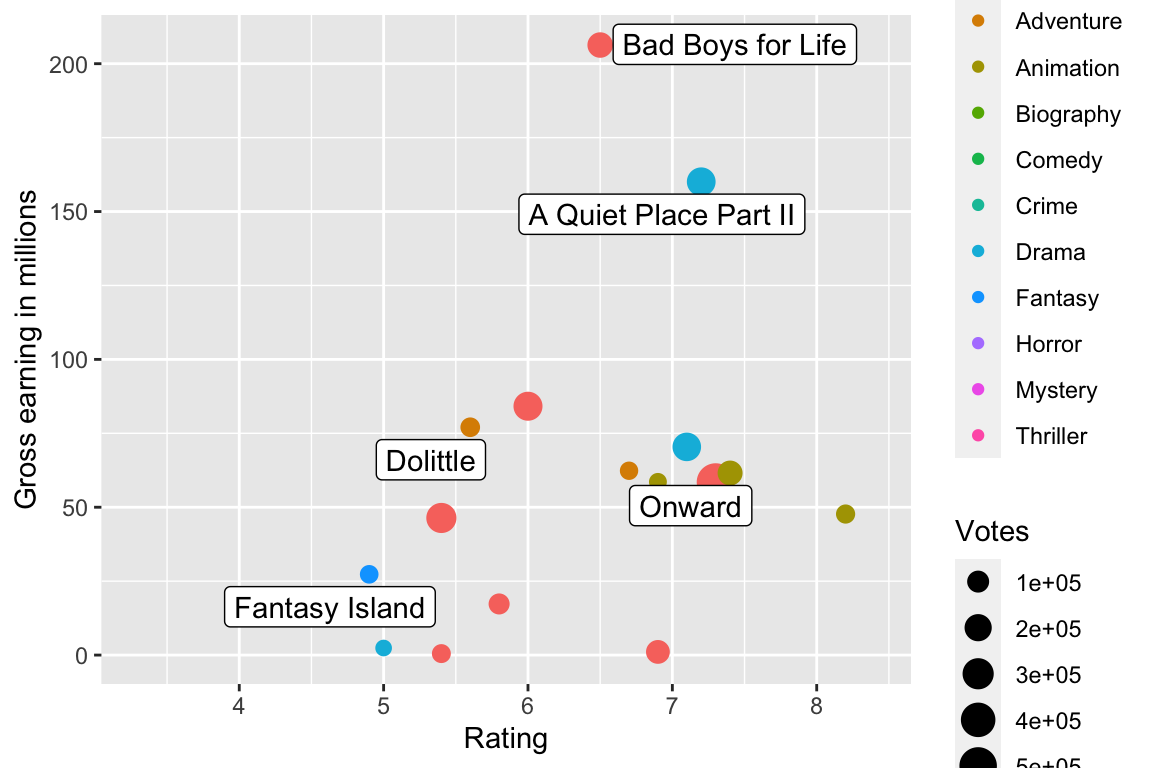
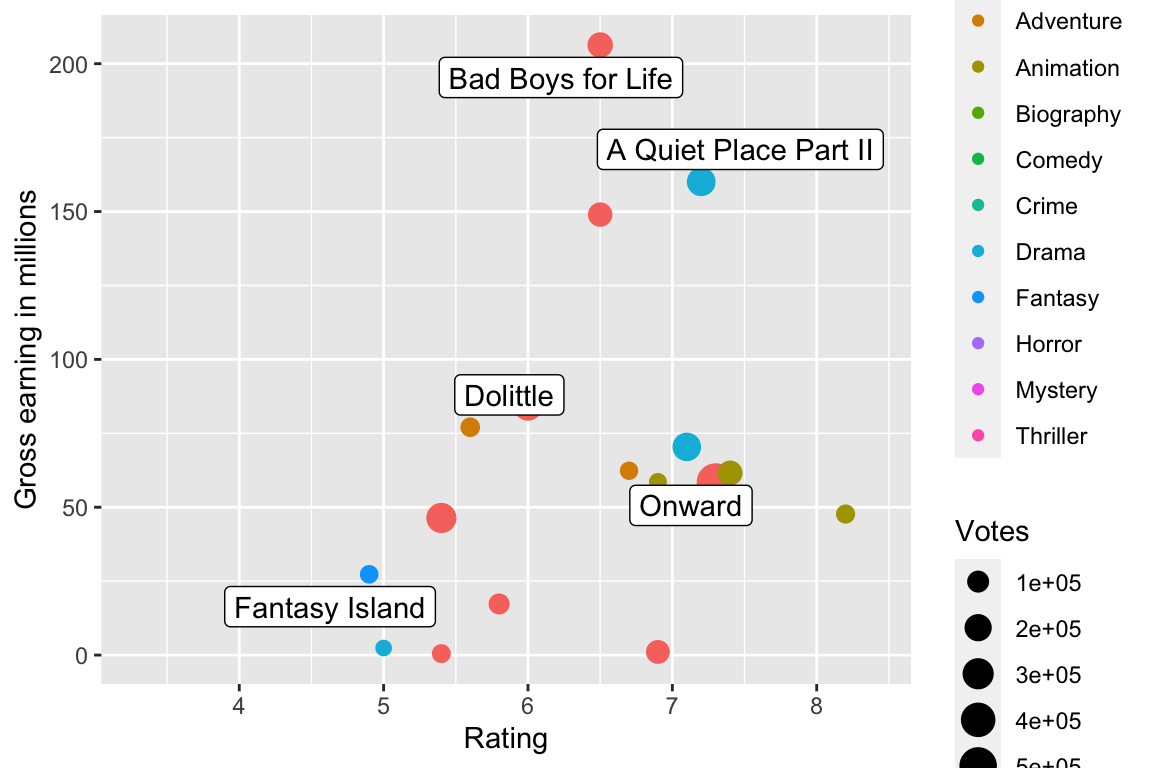
typos

diff --git a/slides/10-scraping/scraping.html b/slides/10-scraping/scraping.html
@@ -212,7 +212,7 @@ loaded via a namespace (and not attached):
 <ul>
 <li><p>We follow instructions in a <a href="https://www.analyticsvidhya.com/blog/2017/03/beginners-guide-on-web-scraping-in-r-using-rvest-with-hands-on-knowledge/">Blog by SAURAV KAUSHIK</a> to find the most popular feature films of 2020.</p></li>
 <li><p>Install the <a href="https://selectorgadget.com/">SelectorGadget</a> extension for Chrome.</p></li>
-<li><p>The 100 most popular feature films released in 2021 can be accessed at page <a href="https://www.imdb.com/search/title/?title_type=feature&amp;release_date=2020-01-01,2020-12-31&amp;count=100" class="uri">https://www.imdb.com/search/title/?title_type=feature&amp;release_date=2020-01-01,2020-12-31&amp;count=100</a>.</p></li>
+<li><p>The 100 most popular feature films released in 2020 can be accessed at page <a href="https://www.imdb.com/search/title/?title_type=feature&amp;release_date=2020-01-01,2020-12-31&amp;count=100" class="uri">https://www.imdb.com/search/title/?title_type=feature&amp;release_date=2020-01-01,2020-12-31&amp;count=100</a>.</p></li>
 </ul>
 <div class="cell" data-layout-align="center">
 <div class="sourceCode cell-code" id="cb4"><pre class="sourceCode r code-with-copy"><code class="sourceCode r"><span id="cb4-1"><a href="#cb4-1" aria-hidden="true" tabindex="-1"></a><span class="co"># Specifying the url for desired website to be scraped</span></span>
@@ -595,16 +595,16 @@ loaded via a namespace (and not attached):
 <span id="cb28-5"><a href="#cb28-5" aria-hidden="true" tabindex="-1"></a>  <span class="fu">as.numeric</span>()</span>
 <span id="cb28-6"><a href="#cb28-6" aria-hidden="true" tabindex="-1"></a>votes_data</span></code><button title="Copy to Clipboard" class="code-copy-button"><i class="bi"></i></button></pre></div>
 <div class="cell-output cell-output-stdout">
-<pre><code>  [1] 515425  38484  16669    270  91521 272130   8216 159222 197888 178164
- [11]  97419 236658 138528 130853  29385  89871 165477  56277 163595  61469
- [21] 243319  31970 164952 163391  28166 207534 335657  33276 168780  14917
- [31]  43582 120169 117063  84774  57692 150276  85413 100124  13410  31586
- [41]  51283  82654  56597 142831  33620  15439 232274  64133  22518  81963
- [51]  61108  77053  95939  10145  70496  14083  41011 180338 135051  14452
- [61]  70218  70392  76910  90833  45666  17712   7130  90552  23467    913
- [71]  34872  43281  51124  42567  10111  83844  60356 153004  21930  32238
- [81]  66085  10624  52399  24390   6262  52919  88678  33393 143285   9983
- [91]   5014  53974  19400    765  70129   9729  41606   4742   4803  43294</code></pre>
+<pre><code>  [1] 515489  38498  16675    270  91529 272157   8263 159260 197916 178206
+ [11]  97436 236703 138538 130874  29406  89879 165513  56282 163610  61483
+ [21] 243352  31985 164982 163411  28171 207560 335694  33277 168794  14942
+ [31]  43590 120188 117075  84778  57701 150284  85425 100136  13420  31591
+ [41]  51289  82674  56616 142842  33628  15440 232283  64139  22520  81971
+ [51]  61116  77062  95946  10150  70509  14094  41019 180349 135068  14453
+ [61]  70237  70399  76914  90844  45677  17716   7133  90566  23480    918
+ [71]  34879  43284  51128  42569  10117  83854  60368 153020  21933  32248
+ [81]  66091  10625  52405  24394   6264  52929  88692  33399 143296   9987
+ [91]   5019  53978  19403    766  70136   9729  41618   4742   4809  43296</code></pre>
 </div>
 </div>
 </section>
@@ -912,16 +912,16 @@ loaded via a namespace (and not attached):
 10 A young woman, traumatized by a tragic event in her past, seeks out vengeanc…
    Runtime Genre    Rating Metascore  Votes Gross_Earning_in_Mil
      &lt;int&gt; &lt;chr&gt;     &lt;dbl&gt;     &lt;int&gt;  &lt;dbl&gt;                &lt;dbl&gt;
- 1     150 Action      7.3        69 515425                 58.5
- 2     103 Horror      6.5        72  38484                 NA  
- 3     111 Drama       5.5        31  16669                 NA  
+ 1     150 Action      7.3        69 515489                 58.5
+ 2     103 Horror      6.5        72  38498                 NA  
+ 3     111 Drama       5.5        31  16675                 NA  
  4      89 Thriller    4          NA    270                 NA  
- 5     114 Drama       3.3        NA  91521                 NA  
- 6     151 Action      5.4        60 272130                 46.4
- 7     100 Drama       6.5        52   8216                 NA  
- 8      97 Drama       8.2        88 159222                 NA  
- 9     123 Action      6.6        68 197888                 NA  
-10     113 Crime       7.5        73 178164                 NA  
+ 5     114 Drama       3.3        NA  91529                 NA  
+ 6     151 Action      5.4        60 272157                 46.4
+ 7     100 Drama       6.5        52   8263                 NA  
+ 8      97 Drama       8.2        88 159260                 NA  
+ 9     123 Action      6.6        68 197916                 NA  
+10     113 Crime       7.5        73 178206                 NA  
    Director           Actor                
    &lt;chr&gt;              &lt;chr&gt;                
  1 Christopher Nolan  John David Washington
@@ -1016,11 +1016,11 @@ loaded via a namespace (and not attached):
 5 When the owner and operator of a luxurious island invites a collection of gue…
   Runtime Genre     Rating Metascore  Votes Gross_Earning_in_Mil Director      
     &lt;int&gt; &lt;chr&gt;      &lt;dbl&gt;     &lt;int&gt;  &lt;dbl&gt;                &lt;dbl&gt; &lt;chr&gt;         
-1      97 Drama        7.2        71 236658                160.  John Krasinski
-2     124 Action       6.5        59 163595                206.  Adil El Arbi  
-3     102 Animation    7.4        61 153004                 61.6 Dan Scanlon   
-4     101 Adventure    5.6        26  66085                 77.0 Stephen Gaghan
-5     109 Fantasy      4.9        22  53974                 27.3 Jeff Wadlow   
+1      97 Drama        7.2        71 236703                160.  John Krasinski
+2     124 Action       6.5        59 163610                206.  Adil El Arbi  
+3     102 Animation    7.4        61 153020                 61.6 Dan Scanlon   
+4     101 Adventure    5.6        26  66091                 77.0 Stephen Gaghan
+5     109 Fantasy      4.9        22  53978                 27.3 Jeff Wadlow   
   Actor            
   &lt;chr&gt;            
 1 Emily Blunt      
